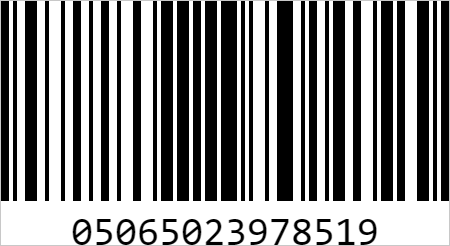
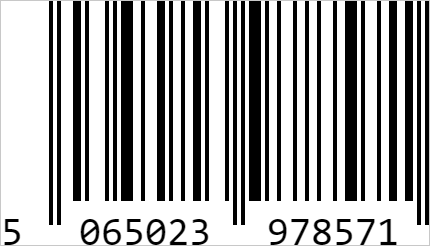
Update 5 English articles from the final capture run
Barcode images: type follows GTIN Type (EAN = EAN-13, GTIN = Code 128),
variant page saves an SVG directly, new EAN-13 example. License: contact
and company form, Continue to Payment, Get UPC Codes tip. Assign One:
row updates at once, Scan to Refresh, Assign Barcode button. Duplicates:
what the variants link opens. Prefix: GTIN Type sets the barcode image.

diff --git a/v1/articles/en/download-barcode-images.md b/v1/articles/en/download-barcode-images.md
@@ -18,22 +18,22 @@ Download a barcode image for each variant that has a GTIN, in SVG or PNG format,
 
 The window closes and your browser downloads a ZIP file. GS1 Assistant shows no message. Look for the file in your browser's downloads.
 
-To download the barcode of one variant, click the eye icon on its row. The variant page shows the barcode with a **Download Barcode** button at the top.
+To download the barcode of one variant, click the eye icon on its row, then click **Download Barcode** at the top of the variant page. No window opens: your browser saves an SVG file named with the GTIN, for example 5065023978571.svg.
 
 ### What the file contains
 
-- **The ZIP file** is named with the format, your store and the date, for example barcodes_png_yourstore_2026-11-05.zip.
-- **Each image** is named with the product, the variant and the GTIN, for example Linen_Shirt_-_Blue_S_05065023978519.png.
-- **The PNG image** shows the bars with the GTIN digits below them, on a white background, at 448 × 244 pixels.
+- **The ZIP file** is named with the format, your store and the date, for example barcodes_svg_yourstore_2026-11-05.zip or barcodes_png_yourstore_2026-11-05.zip.
+- **Each image** is named with the product, the variant and the GTIN, for example Linen_Shirt_-_S_5065023978571.png.
+- **The PNG image** shows the bars with the GTIN digits below them, on a white background, about 430 to 450 pixels wide and 244 pixels high.
 
-![screenshot:A downloaded PNG barcode image: black bars with the number 05065023978519 below them, on a white background.](BarcodePNGExample.png)
+![screenshot:A downloaded PNG barcode image for an EAN prefix: an EAN-13 barcode with longer bars at the start, middle and end, and the digits 5 065023 978571 below them, on a white background.](BarcodePNGExample.png)
 
 Choose **SVG Format** when you print large or resize the barcode: an SVG image stays sharp at any size. A PNG image has a fixed number of pixels and blurs when you enlarge it.
 
 ### Before you print
 
-- **Check the barcode type.** In our test, the PNG image was a Code 128 barcode of the 14-digit GTIN. Shop checkouts usually scan EAN-13 or UPC-A barcodes. Ask your retailer or your printer which barcode type they need.
-- **Leave white space at the sides.** The image has no white margin at its left and right edges. Keep a clear space on both sides when you place it on your design.
+- **Check the barcode type.** It depends on the **GTIN Type** of the prefix the GTIN came from: **EAN** gives a 13-digit EAN-13 barcode, and **GTIN** gives a 14-digit Code 128 barcode. Shop checkouts usually scan EAN-13 or UPC-A barcodes, so a Code 128 barcode may not suit packaging for shops. To get EAN-13, see [Change the GTIN type](https://gs1assistant.crisp.help/en/article/adding-and-managing-your-company-prefix-6cxy7p/). Ask your retailer or your printer which barcode type they need. We tested this with a GS1 UK prefix.
+- **Leave white space at the sides.** The image has little or no white margin at its edges. Keep a clear space on both sides when you place it on your design.
 - **Test a print.** Print one barcode and scan it before you print many.
 
 ### Troubleshooting

diff --git a/v1/articles/en/license-a-gs1-us-company-prefix.md b/v1/articles/en/license-a-gs1-us-company-prefix.md
@@ -18,7 +18,7 @@ If you sell in the US and have no GS1 company prefix yet, license one from GS1 U
 
 ![screenshot:The License Company Prefix window. The five packages (4), from 1-10 for $250.00 to 1-100,000 for $10,500.00, and the Continue button (5) are outlined. Find My GS1 Member Organization sits next to Continue.](LicensePrefixWindow.png)
 
-6. Follow the steps that open to complete your purchase.
+6. Fill in **Contact Information** and **Company Information**, then click **Continue to Payment**.
 
 The prices above are as shown in the app in November 2026. GS1 US sets the terms of the licence, including any yearly fee. Check them before you pay.
 
@@ -32,6 +32,7 @@ Then assign GTINs to your variants. See [Assign GTINs to Many Variants at Once](
 
 ### Tips
 
+- **Need only a few GTINs?** When you click **Assign Barcode** on a variant, the **Company Prefix** list also offers **Get UPC Codes** ("License individual UPC codes"). GS1 Assistant assigns only from a prefix, so you paste individually licensed codes into the Shopify barcode field yourself.
 - **Already have a GS1 US account?** Buying a second prefix here can open a separate GS1 US account. To combine the two, ask GS1 US about a prefix transfer.
 - **Choose a package with room to grow.** Larger packages cost less per GTIN: 1-10 is $25.00 per GTIN, 1-100 is $7.50.
 

diff --git a/v1/articles/en/adding-and-managing-your-company-prefix.md b/v1/articles/en/adding-and-managing-your-company-prefix.md
@@ -26,7 +26,7 @@ The **Prefixes** table lists each prefix with its **Size**, **Remaining** GTINs,
 
 ### Change the GTIN type
 
-The **GTIN Type** sets the format GS1 Assistant writes to the Shopify barcode field. The options are **EAN** and **GTIN**. With **GTIN**, prefix 5065023978 gives 14-digit barcodes such as 05065023978496. There is no UPC type: for a GS1 US or GS1 Canada prefix, **EAN** writes your UPC with a 0 in front (13 digits) and **GTIN** with 00 in front (14 digits). Both are the same number as the 12-digit UPC.
+The **GTIN Type** sets the format GS1 Assistant writes to the Shopify barcode field. The options are **EAN** and **GTIN**. With **GTIN**, prefix 5065023978 gives 14-digit barcodes such as 05065023978496. There is no UPC type: for a GS1 US or GS1 Canada prefix, **EAN** writes your UPC with a 0 in front (13 digits) and **GTIN** with 00 in front (14 digits). Both are the same number as the 12-digit UPC. The type also sets the barcode image: **EAN** gives an EAN-13 barcode, and **GTIN** gives a Code 128 barcode. For the download steps, see the article Download Barcode Images for Your GTINs.
 
 1. In the GS1 Assistant menu, click **Settings**.
 2. In the **Prefixes** table, scroll right and click the pencil icon on the prefix's row. The **Company Prefixes** page opens.

diff --git a/v1/articles/en/how-to-avoid-duplicate-gtin-assignments.md b/v1/articles/en/how-to-avoid-duplicate-gtin-assignments.md
@@ -54,7 +54,7 @@ The **Duplicate GTINs** tab in **GTIN Manager** lists every GTIN that more than 
 ![screenshot:A Duplicate GTINs row with a red bar on the left: 2 variants, Duplicates, GTIN 05065023978496, GS1 UK.](StatusDuplicateRow.png)
 
 1. Set **Start** or import an **Exclude** list first (see above), so the replacement GTINs do not collide again.
-2. On the **Duplicate GTINs** tab, click **[number] variants** in the row to see which variants share the GTIN.
+2. On the **Duplicate GTINs** tab, click **[number] variants** in the row. A small window lists the variants that share the GTIN, each with an eye icon that opens its page.
 3. Decide which variant keeps the GTIN. If the GTIN is already on a marketplace listing or printed packaging, that product keeps it.
 4. Click the **All** tab, search for each other variant's product, tick the variant, click **Unassign Barcode**, then click **Unassign 1 GTINs**.
 

diff --git a/v1/articles/en/assign-your-first-gtin-to-a-product.md b/v1/articles/en/assign-your-first-gtin-to-a-product.md
@@ -23,7 +23,9 @@ Assign a GTIN from your company prefix to one product variant, check that it rea
 
 ![screenshot:The Select Company Prefix window with prefix 5065023978, its Prefix Details, and the Assign button (5) outlined.](QuickStartSelectPrefix.png)
 
-GS1 Assistant takes the next free GTIN from your prefix and writes it to the variant's barcode in Shopify.
+GS1 Assistant takes the next free GTIN from your prefix and writes it to the variant's barcode in Shopify. The row shows the new GTIN straight away, with a **Scan to Refresh** banner. The tab counts change after the next scan.
+
+A row without a barcode also has an **Assign Barcode** button. It opens the same window for that one variant.
 
 > **Product not in the list?** The **Status** filter shows active products by default. To see a draft product, set **Status** to **Draft** after you click the tab, because clicking a tab resets the filter.
 
